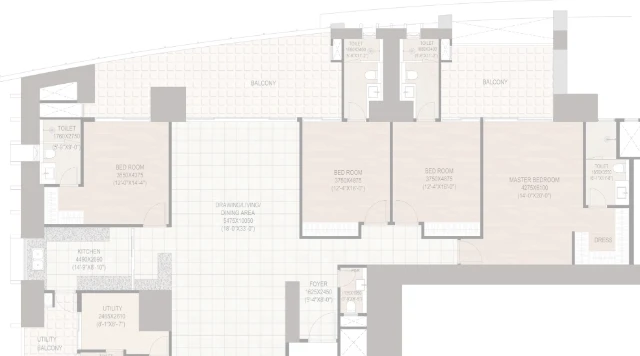
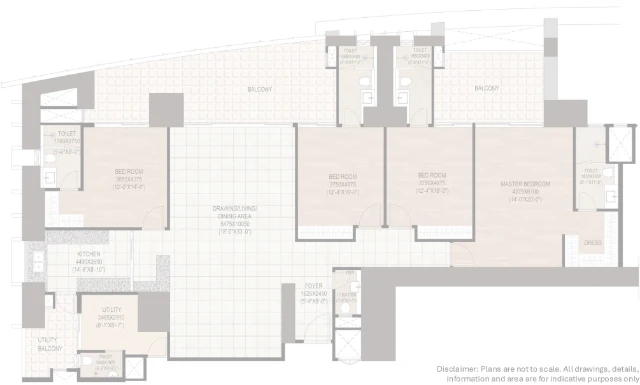
DLF Privana North: use the full 4 BHK floor plan (was cropped at bottom)
The traced plan asset was cropped ~1.80 aspect vs the real 1.66, cutting off
the bottom strip (utility, utility balcony, lower toilet, foyer & lift lobby).
Rebuild the plan tile from the full official image pulled from the config's
floor_plan_image_url (2050×1220), so nothing is cut:

- Regenerate privana-4bhk.webp + -tex.webp uncropped (now 640×385).
- Re-trace interior walls (FLATW) from the full plan so the 3D model and
  walk-through stay consistent with the 2D tile's floor texture.
- Re-anchor the room labels (ROOMLABELS) and walk-through spawn (SPAWN) to the
  new full-plan proportions so the Bed/Living/Kitchen/Master glows sit right.

Verified in Chromium: 2D plan, sun-path and 3D model all render the complete
plan with aligned labels on both phone and desktop.

Claude-Session: https://claude.ai/code/session_01K59rw81Ray6TvpXZwVUHsn

diff --git a/public/tower-intel/dlf-privana-north.html b/public/tower-intel/dlf-privana-north.html
@@ -1268,7 +1268,7 @@ function renderTowerPanel(){const t=selTower;document.getElementById('pClose').s
   document.getElementById('uLeg').innerHTML=curves.map(c=>`<span><i style="background:${c.color}"></i>${c.r.u.id}</span>`).join('');}
 
 /* \u2500\u2500 flat 3D dollhouse \u2500\u2500 */
-const FLATW={"4 BHK|101":{"iw":640,"ih":356,"walls":[[361,28,1,11],[331,29,30,10],[376,29,30,10],[421,29,31,10],[554,31,13,18],[331,39,2,7],[342,39,2,83],[384,39,15,83],[439,39,2,83],[450,39,2,7],[341,59,1,4],[331,60,10,2],[441,60,11,2],[93,64,2,39],[87,65,6,38],[82,66,5,37],[76,67,6,14],[69,68,7,14],[65,69,4,13],[58,70,7,13],[55,71,3,14],[48,72,7,13],[44,73,4,13],[38,74,6,13],[34,75,4,69],[28,76,6,68],[23,77,5,67],[21,78,2,66],[77,81,5,1],[65,82,3,1],[78,82,4,21],[58,83,6,1],[48,85,5,1],[44,86,3,1],[38,87,4,1],[151,87,35,35],[38,88,1,56],[554,94,43,28],[597,98,1,24],[39,100,39,3],[369,101,15,21],[399,101,14,21],[39,117,56,2],[297,117,5,5],[481,117,2,122],[553,117,1,5],[344,118,3,4],[366,118,3,4],[413,118,3,4],[436,118,3,4],[480,118,1,121],[616,118,8,4],[639,118,1,4],[43,119,52,1],[435,119,1,3],[615,119,1,3],[81,120,14,2],[81,122,3,65],[169,122,3,105],[300,122,2,117],[390,122,3,103],[583,122,3,86],[616,122,4,37],[80,146,1,3],[620,157,20,2],[629,159,5,125],[21,162,18,76],[341,170,3,1],[441,179,3,1],[139,183,4,1],[39,184,21,3],[78,184,3,3],[39,187,5,51],[586,205,2,3],[607,205,22,3],[241,213,3,1],[358,222,6,3],[388,222,2,3],[393,222,2,3],[419,222,5,3],[44,224,99,3],[166,224,3,3],[358,225,3,14],[421,225,3,14],[572,231,3,53],[302,236,56,3],[424,236,56,3],[458,239,3,1],[457,264,4,20],[338,265,119,3],[461,265,111,19],[575,265,54,19],[634,265,6,19],[367,268,90,16],[24,280,1,47],[26,280,15,47],[42,280,2,47],[21,281,3,46],[25,281,1,46],[41,281,1,46],[286,282,13,60],[367,284,35,72],[338,287,2,69],[44,289,1,4],[148,289,1,42],[45,290,10,3],[76,290,72,3],[149,290,22,41],[52,293,3,1],[77,293,5,19],[139,293,9,38],[53,294,2,13],[326,298,1,3],[340,313,4,3],[358,313,9,3],[340,326,1,4],[366,326,1,3],[341,327,25,2],[169,331,3,25],[337,338,1,5],[299,339,9,3],[336,339,1,3],[286,342,3,14],[285,343,1,13],[81,349,1,3],[77,350,4,3],[82,350,24,2],[123,350,3,6],[126,354,23,2]],"rails":[]}};   // DLF Privana North — interior walls traced from the official 4 BHK + SR floor plan
+const FLATW={"4 BHK|101":{"iw":640,"ih":385,"walls":[[326,36,30,10],[371,36,29,10],[414,36,30,10],[544,38,13,18],[326,46,2,7],[336,46,3,81],[377,46,16,81],[432,46,2,81],[442,46,3,7],[326,67,10,2],[434,67,11,2],[89,71,5,38],[84,72,5,37],[77,73,7,36],[73,74,4,14],[67,75,6,13],[62,76,5,13],[56,77,6,13],[51,78,5,13],[46,79,5,13],[40,80,6,13],[36,81,4,68],[30,82,6,67],[25,83,5,66],[22,84,3,65],[475,86,1,4],[67,88,3,1],[62,89,4,1],[56,90,4,1],[51,91,3,1],[46,92,3,1],[40,93,4,1],[149,93,34,34],[544,100,43,27],[40,106,37,3],[364,107,13,20],[393,107,14,20],[40,122,1,3],[41,123,53,2],[293,123,5,4],[363,123,1,4],[431,123,1,4],[472,123,3,119],[339,124,3,3],[360,124,3,3],[407,124,3,3],[428,124,3,3],[604,124,10,3],[627,124,10,3],[80,125,14,1],[81,126,13,1],[81,127,3,64],[167,127,3,103],[295,127,3,115],[384,127,3,101],[573,127,3,85],[605,127,4,1],[632,127,4,1],[606,128,3,36],[632,128,3,36],[73,131,3,1],[59,132,1,3],[605,143,1,3],[80,151,1,3],[609,162,23,2],[618,164,5,122],[22,166,18,75],[122,169,3,1],[122,170,1,4],[127,171,3,1],[442,173,1,3],[445,173,1,4],[438,174,1,3],[329,175,1,4],[336,175,1,4],[341,176,3,1],[345,178,3,1],[501,182,1,4],[513,182,1,4],[519,182,1,3],[524,182,1,4],[534,183,1,3],[80,187,1,4],[40,188,20,3],[78,188,2,3],[338,190,1,4],[40,191,5,50],[420,192,3,1],[515,197,1,4],[576,209,2,3],[597,209,21,2],[601,211,3,1],[222,214,1,4],[231,214,1,4],[245,214,1,4],[353,225,6,3],[381,225,3,3],[387,225,2,3],[412,225,5,3],[45,227,97,3],[165,227,2,3],[353,228,3,14],[414,228,3,1],[415,229,2,13],[46,230,3,1],[64,230,9,1],[74,230,3,1],[84,230,3,1],[245,230,1,3],[562,234,3,52],[417,238,1,4],[298,239,55,3],[418,239,54,3],[587,241,1,3],[450,242,3,1],[80,260,1,3],[450,266,3,20],[332,267,118,3],[453,267,109,19],[565,267,53,19],[623,267,16,19],[332,270,3,2],[361,270,89,16],[24,282,1,46],[27,282,18,46],[22,283,2,45],[25,283,2,45],[282,284,13,59],[361,286,35,1],[361,287,34,74],[332,289,3,72],[46,291,1,4],[82,291,1,4],[84,291,1,4],[87,291,1,4],[109,291,1,4],[112,291,1,4],[133,291,2,4],[147,291,1,41],[45,292,1,3],[47,292,8,3],[76,292,6,3],[83,292,1,3],[85,292,2,3],[88,292,21,3],[110,292,2,3],[113,292,20,3],[135,292,12,3],[148,292,22,40],[53,295,2,14],[77,295,5,18],[138,295,9,37],[335,314,4,3],[352,314,9,3],[335,327,1,4],[360,327,1,3],[336,328,24,2],[167,332,3,29],[295,340,9,3],[331,340,1,3],[281,343,4,18],[77,350,28,3],[122,350,3,32],[77,353,3,1],[125,354,1,4],[128,354,5,3],[134,354,13,3],[143,357,4,1],[170,357,111,4],[335,357,1,4],[144,358,2,23],[336,358,2,3],[438,366,3,1],[481,366,3,1],[486,366,1,5],[553,366,1,5],[578,366,1,5],[615,366,1,6],[631,366,1,5],[437,367,1,4],[441,367,1,4],[481,367,1,4],[531,367,1,5],[566,367,1,3],[602,367,1,3],[622,367,1,4],[50,368,3,14],[67,368,13,4],[443,368,1,4],[458,368,1,3],[461,368,1,3],[463,368,1,3],[468,368,1,4],[470,368,1,3],[474,368,1,3],[491,368,1,3],[493,368,1,3],[506,368,1,4],[508,368,1,4],[511,368,1,3],[517,368,1,3],[520,368,1,3],[524,368,1,3],[536,368,1,3],[544,368,1,3],[551,368,1,3],[575,368,1,3],[580,368,1,4],[585,368,1,3],[596,368,1,3],[600,368,1,5],[606,368,1,4],[620,368,1,3],[627,368,1,4],[629,368,1,3],[496,369,1,3],[555,369,3,1],[617,369,3,1],[77,372,3,10],[504,376,1,5],[560,376,1,5],[634,376,1,5],[22,377,28,5],[80,377,42,5],[629,377,1,4],[125,378,1,3],[143,378,1,3],[452,378,1,3],[459,378,1,3],[464,378,1,3],[467,378,1,3],[474,378,1,3],[488,378,1,3],[492,378,1,3],[494,378,1,3],[496,378,1,3],[499,378,1,3],[501,378,1,3],[510,378,1,3],[522,378,1,3],[526,378,1,3],[528,378,1,3],[530,378,1,3],[533,378,1,3],[541,378,1,3],[544,378,1,3],[546,378,1,3],[551,378,1,3],[555,378,1,3],[569,378,1,3],[571,378,1,3],[576,378,1,3],[582,378,1,3],[588,378,1,5],[591,378,1,3],[593,378,1,3],[596,378,1,3],[598,378,1,3],[601,378,1,5],[605,378,1,3],[608,378,1,3],[614,378,1,3],[624,378,1,3],[126,379,17,2]],"rails":[]}};   // DLF Privana North — interior walls traced from the full official 4 BHK + SR floor plan
 const DECKB={"4 BHK|101":0};
 /* M3M brochure floor plans (2D) pending file upload. Interior 3D geometry not traced
    yet — the 2D plan is the source of truth; a fast-follow adds traced walls. */
@@ -1277,7 +1277,7 @@ function planFor(cfgKey,uid){return PLANS[cfgKey+'|'+uid]||PLANS[cfgKey+'|101'];
 /* room labels for the 3D — [name, fx, fy] as fractions of the plan (fx: 0=left→1=right,
    fy: 0=top→1=bottom), read off the sanctioned M3M floor plans */
 const ROOMLABELS={
-  "4 BHK|101":[["Living",0.37,0.55],["Master",0.85,0.45],["Bed 2",0.19,0.44],["Bed 3",0.53,0.46],["Bed 4",0.68,0.46],["Kitchen",0.13,0.66]],
+  "4 BHK|101":[["Living",0.37,0.52],["Master",0.82,0.47],["Bed 2",0.20,0.46],["Bed 3",0.53,0.46],["Bed 4",0.66,0.46],["Kitchen",0.135,0.68]],
 };
 function roomLabelsFor(cfgKey,uid){return ROOMLABELS[cfgKey+'|'+uid]||ROOMLABELS[cfgKey+'|101'];}
 let f3=null;
@@ -1429,7 +1429,7 @@ function buildFlat3D(cfgKey,uid,bearing){
   {const R=Math.max(W,D)/2+5,sh=f3.sun3.shadow.camera;sh.left=sh.bottom=-R;sh.right=sh.top=R;sh.updateProjectionMatrix();}
   if(typeof f3setSun==='function')f3setSun(f3.sunFrac);}
 /* walk-through: first-person mode */
-const SPAWN={"4 BHK|101":{"x":237,"y":230,"yaw":0}};
+const SPAWN={"4 BHK|101":{"x":237,"y":215,"yaw":0}};
 function walkCollide(x,z,r){
   const C=(f3&&f3.colliders)||[];
   for(let i=0;i<C.length;i++){const c=C[i];
